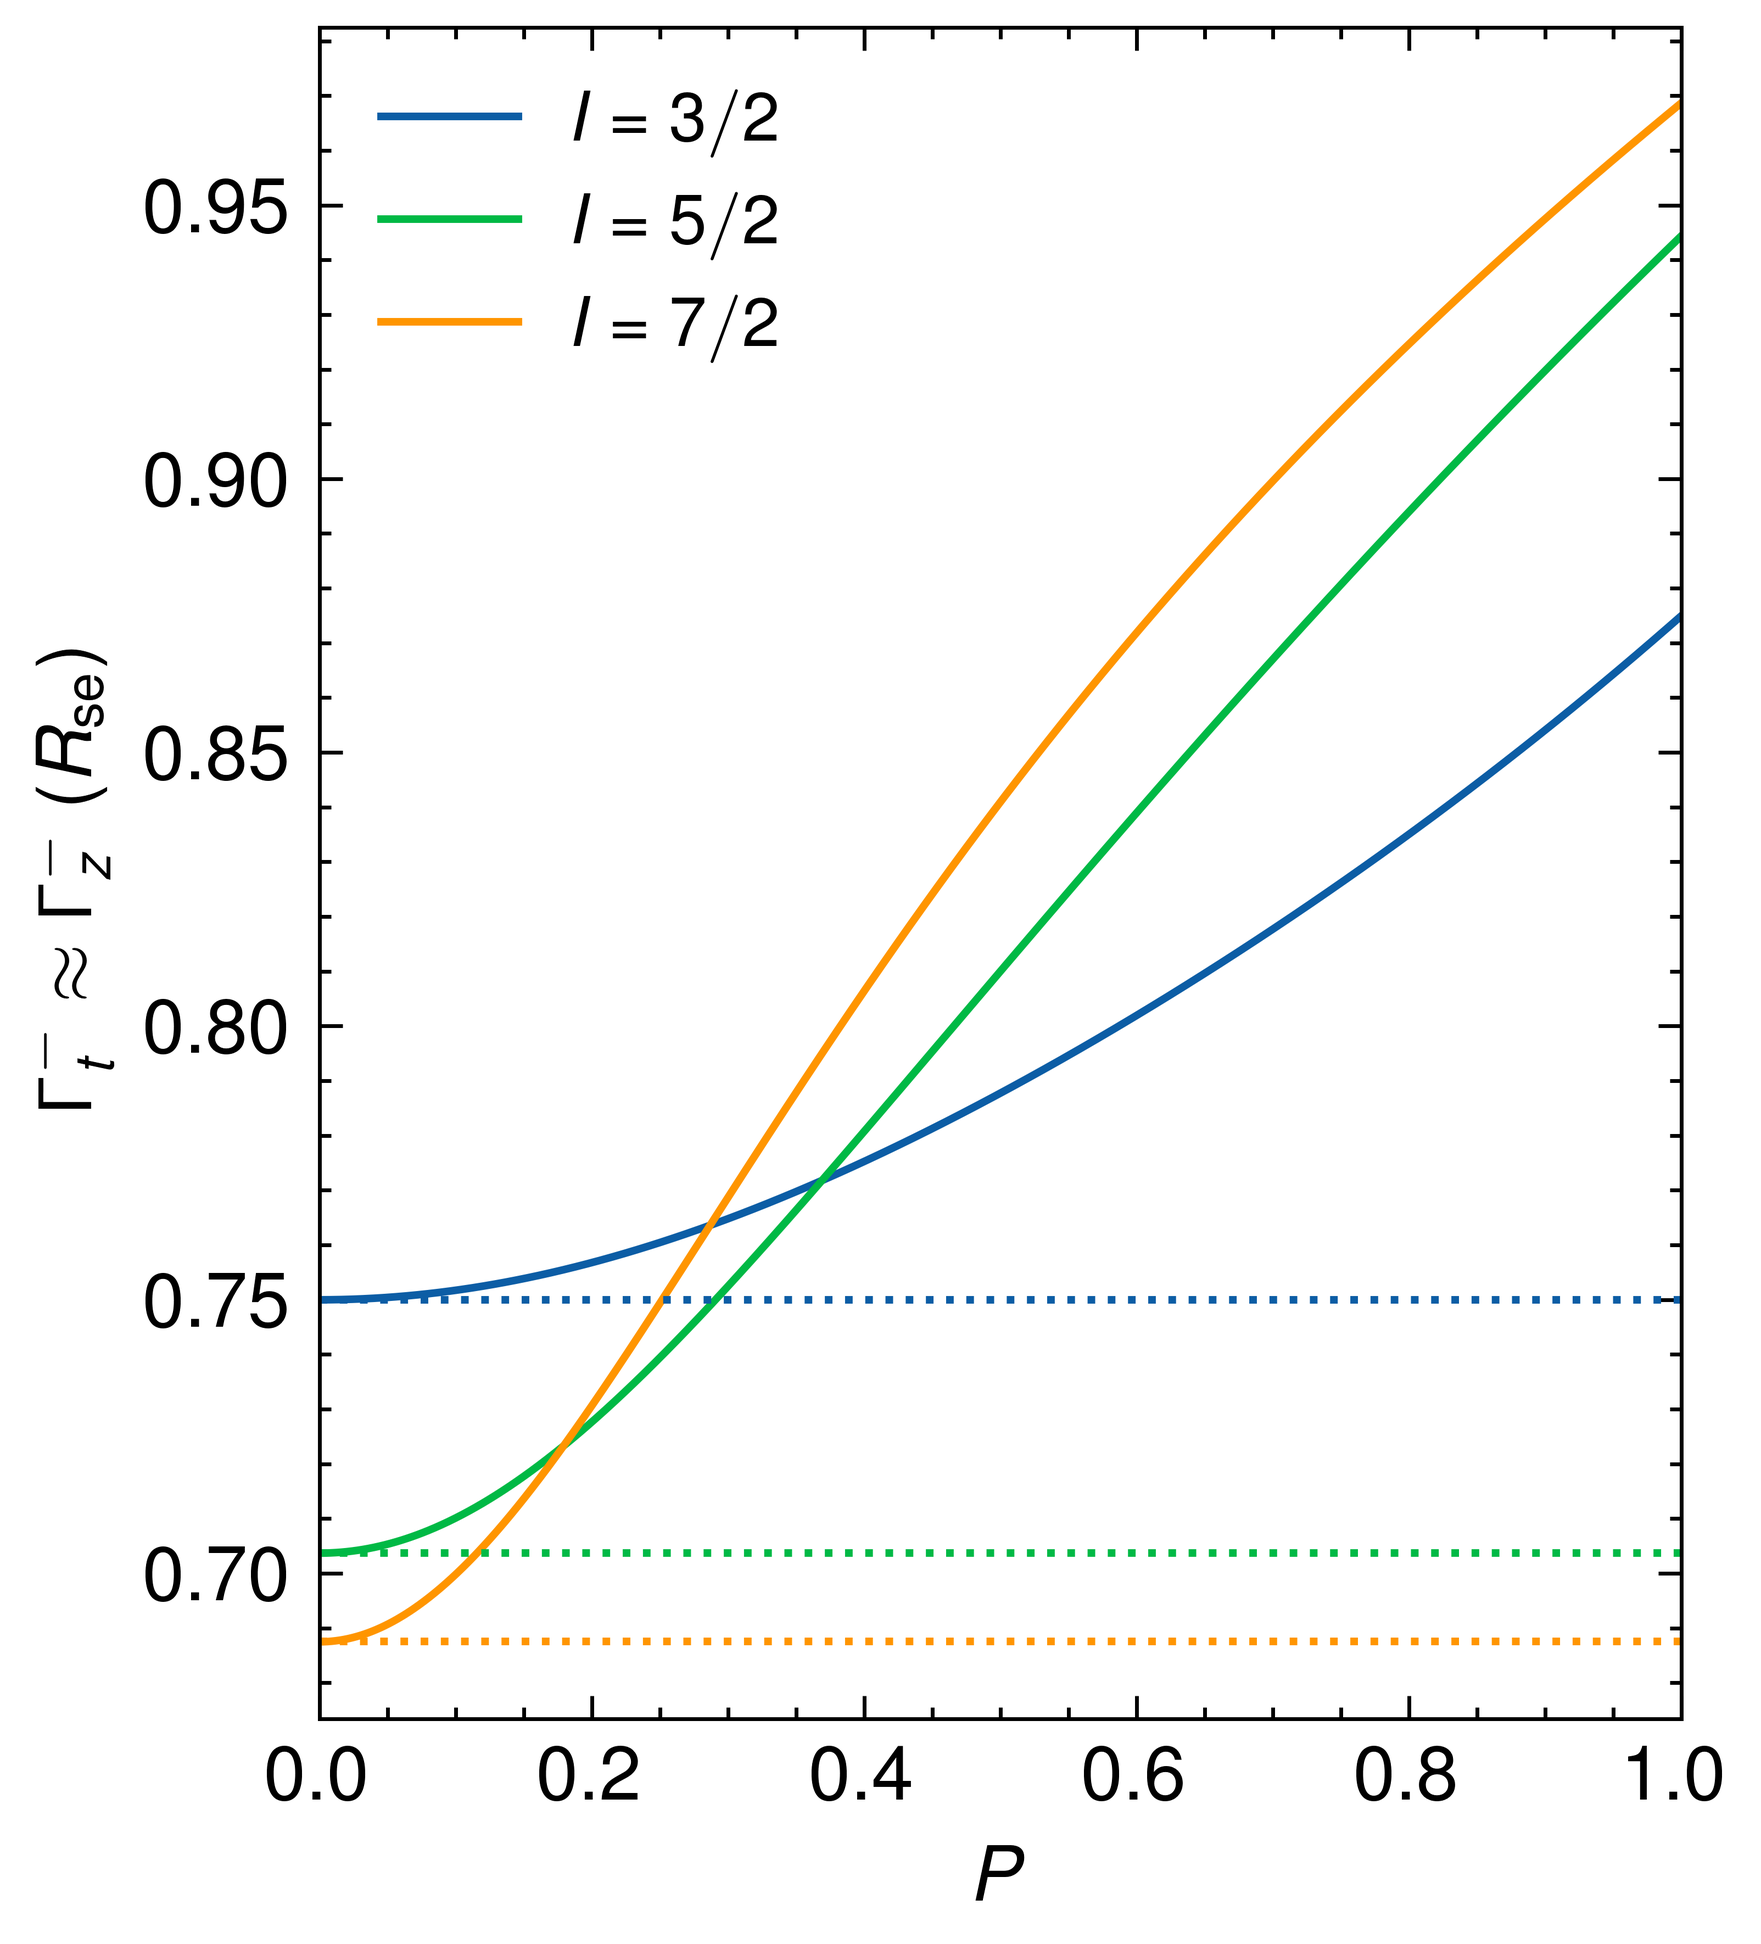
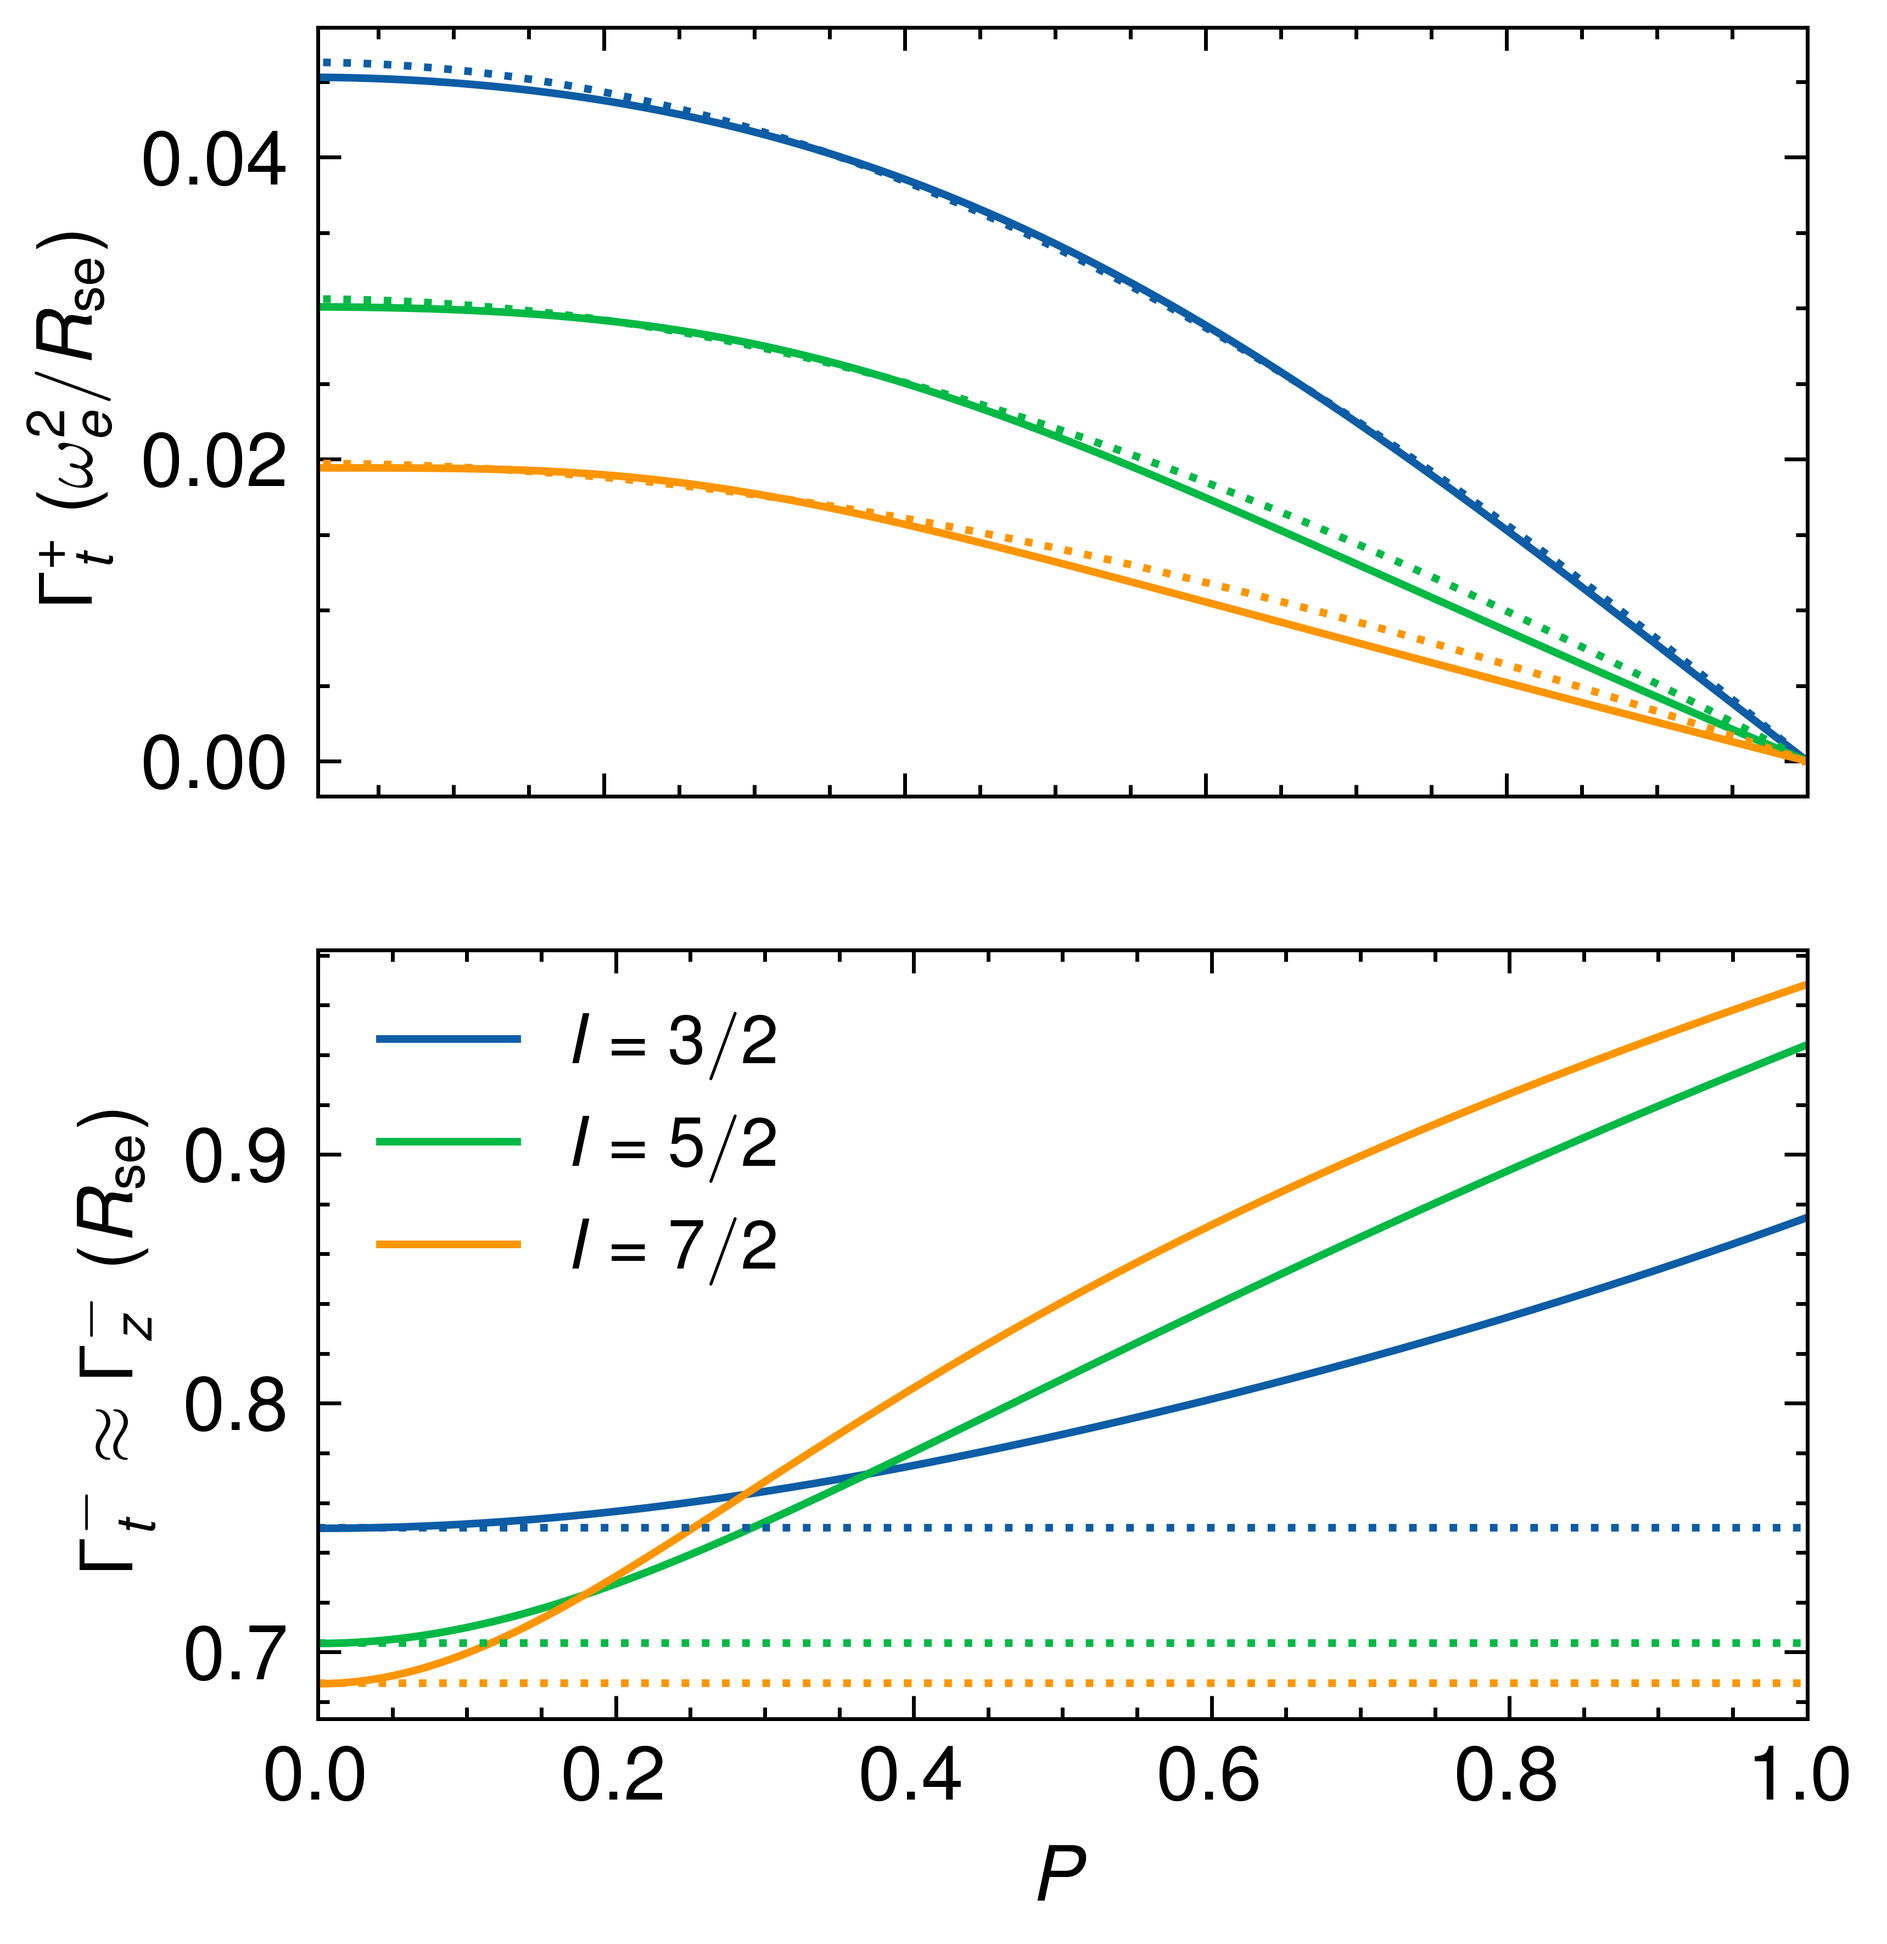
1

diff --git a/test9.py b/test9.py
@@ -1,57 +1,95 @@
+# -*- coding:utf-8 -*-
+"""
+作者：DELL
+日期：2023年12月24日
+"""
+import numpy as np
 import matplotlib.pyplot as plt
 from my_functions.spin_operators_of_2or1_alkali_metal_atoms import spin_operators_of_2or1_alkali_metal_atoms
 from my_functions.alkali_atom_uncoupled_to_coupled import alkali_atom_uncoupled_to_coupled
 from qutip import *
-from sympy.physics.quantum.spin import Rotation
 from sympy import pi
-from my_functions.master_relaxationrate import masterequation
 from scipy.linalg import *
-import numpy as np
-from my_functions.test7_copy import gammam
-bound=1000
-PP,z=gammam(3/2, bound)
-PP,zz=gammam(5/2,bound)
-PP,zzz=gammam(7/2, bound)
+import scienceplots
 
-P=np.arange(0, bound, 1)/1000
 
-# xiao's fast relaxation rate 
-h=3/4
-qq0=2*(19)/(3)
-hh=qq0*4*(5/2)*4/(3*36*(qq0-6))
+# --------------------------------Properties of the alkali metal atom-----------------------------------#
+I = 3 / 2
+a = round(I + 1 / 2)
+b = round(I - 1 / 2)
 
-qqq0=2*(11)/(1)
-hhh=qqq0*4*(7/2)*6/(3*64*(qqq0-8))
+# --------------------------------Generate the angular momentum operators-----------------------------------#
+U = alkali_atom_uncoupled_to_coupled(round(2 * I))
+ax, ay, az, bx, by, bz = spin_operators_of_2or1_alkali_metal_atoms(1, I)
+sx=np.array([[0,0.5],[0.5,0]])
+sy=np.array([[0,1j],[-1j,0]])*0.5
+sz=np.array([[0.5,0],[0,-0.5]])
+Sx = np.kron(np.eye(round(2 * I + 1)), np.array(sx))
+Sx = U.T.conjugate() @ Sx @ U
+Sy = np.kron(np.eye(round(2 * I + 1)), np.array(sy))
+Sy = U.T.conjugate() @ Sy @ U
+Sz = np.kron(np.eye(round(2 * I + 1)), np.array(sz))
+Sz = U.T.conjugate() @ Sz @ U
 
-plt.style.use(['science','nature'])
-with plt.style.context(['science','nature']):
-    fig = plt.figure(figsize=(3.2, 4))
-    ax2 = fig.add_subplot(111)
-    p21=ax2.plot(PP, -z)
-    p22=ax2.plot(PP, -zz)
-    p23=ax2.plot(PP, -zzz)
-    ax2.legend(["$ I=3/2$", "$ I=5/2$", "$ I=7/2$"],
-               loc='upper left', prop={'size': 9})
-    ax2.plot([],[])
-    ax2.plot([],[])
-    ax2.plot([],[])
-    ax2.plot([],[])
-    p24=ax2.plot(PP, h*np.ones(bound),linestyle='dotted')
-    p25=ax2.plot(PP, hh*np.ones(bound),linestyle='dotted')
-    p26=ax2.plot(PP, hhh*np.ones(bound),linestyle='dotted')
-    ax2.set_xlim([0,1])
+# --------------------------------Characterize interactions envolved-----------------------------------#
+Rse = 1
+H = (az - bz) # 投影定理
+dt = 0.001
+q, v = np.linalg.eig(H)
+evolving_B = v @ np.diag(np.exp(-1j * q *0.1)) @ np.linalg.inv(v)
+# --------------------------------Define the initial state-----------------------------------#
+theta = np.pi/2
+phi = 0
+a_theta = spin_Jx(a) * np.sin(theta) * np.cos(phi) + spin_Jy(a) * np.sin(theta) * np.sin(phi) + spin_Jz(a) * np.cos(
+theta)
+b_theta = spin_Jx(b) * np.sin(theta) * np.cos(phi) + spin_Jy(b) * np.sin(theta) * np.sin(phi) + spin_Jz(b) * np.cos(
+theta)
+qa, va = np.linalg.eig(np.array((a_theta.full())))
+qb, vb = np.linalg.eig(np.array((b_theta).full()))
+v = block_diag(va, vb)
+q = np.hstack((qa, qb))
+# # -----------------spin temperature state-----------------#
 
-    # plt.ylim([0.65, 1])
-    # plt.ticklabel_format(axis="y", style="sci", scilimits=(0,0))
-    # plt.xlabel('Frequency (Hz)', fontsize=12)
-    # plt.ylabel(' PSD ($N \chi_a^2/$Hz)', fontsize=12)
 
-    ax2.set_xlabel('$P$', fontsize=10)
-    ax2.set_ylabel('$\Gamma_t^- \\approx \Gamma_z^-$ ($R_{\\rm{se}}$) ', fontsize=10)
-    ax2.tick_params(axis='x', labelsize='10' )
-    ax2.tick_params(axis='y', labelsize='10' )
-    # ax2.set_xlim([0,1000])
-    
+# -----------------eigenstates-----------------#
 
-    plt.savefig('Gamma.png', dpi=1000)
+# Rho_ini = np.outer(np.array([0, 1, 0, 0, 0, 0, 0, 0]), np.array([0, 1, 0, 0, 0, 0, 0, 0]))
+
+# --------------------------------------Evolution under hyperfine effect, etc.--------------------------------#
+
+hyperfine = block_diag(np.ones((2 * a + 1, 2 * a + 1)), np.ones((2 * b + 1, 2 * b + 1)))  # 一个原子
+
+# -----------------Evolution-----------------#
+Rho_ini = np.zeros(2 * (a + b + 1))
+P = 0.6
+beta = np.log((1 + P) / (1 - P))
+for i in np.arange(0, 2 * (a + b + 1), 1):
+    Rho_ini = Rho_ini + np.exp(beta * q[i]) * v[:, [i]] @ v[:, [i]].T.conjugate()
+Rho_ini = Rho_ini / np.trace(Rho_ini)
+Rho_ini = evolving_B @Rho_ini @ evolving_B.T.conjugate()  # Zeeman effect
+Rhot = Rho_ini
+
+
+
+T=10
+etan=np.zeros(round(T/dt))
+tt=np.arange(0,round(T/dt),1)*dt
+for k in np.arange(0,round(T/dt),1):
+    Rhot = hyperfine * Rhot
+    x1 = Rhot @ Sx
+    x2 = Rhot @ Sy
+    x3 = Rhot @ Sz
+    AS = 3 / 4 * Rhot - (Sx @ x1 + Sy @ x2 + Sz @ x3)
+    alpha = Rhot - AS
+    mSx = np.trace(x1)
+    mSy = np.trace(x2)
+    mSz = np.trace(x3)
+    mSS = mSx * Sx + mSy * Sy + mSz * Sz
+    Rhot = Rse * (alpha + 4 * alpha @ mSS - Rhot) * dt  + Rhot
+    P=np.sqrt(mSx**2+mSy**2)*2
+    eta=(5+3*P**2)/(1-P**2)
+    etan[k]=eta
+
+plt.plot(tt,etan)
 plt.show()
+

diff --git a/Gamma.py b/Gamma.py
@@ -16,29 +16,29 @@ PP,zzz=gammam(7/2, bound)
 P=np.arange(0, bound, 1)/1000
 
 # xiao's fast relaxation rate 
-# h=3/4
-# qq0=2*(19)/(3)
-# hh=qq0*4*(5/2)*4/(3*36*(qq0-6))
+h=3/4
+qq0=2*(19)/(3)
+hh=qq0*4*(5/2)*4/(3*36*(qq0-6))
 
-# qqq0=2*(11)/(1)
-# hhh=qqq0*4*(7/2)*6/(3*64*(qqq0-8))
+qqq0=2*(11)/(1)
+hhh=qqq0*4*(7/2)*6/(3*64*(qqq0-8))
 
 # Mr zhao's fast relaxation rate 
 
-varpsilon1=(5+P**2)/(1+P**2)
-q1 = 2 * (3 + P ** 2) / (1 + P ** 2)
-g1=P**2/(4*(1+P**2))
-h = (q1/8)/(varpsilon1)* 5
+# varpsilon1=(5+P**2)/(1+P**2)
+# q1 = 2 * (3 + P ** 2) / (1 + P ** 2)
+# g1=P**2/(4*(1+P**2))
+# h = (q1/8)/(varpsilon1)* 5
 
-varpsilon2=(35+42*P**2+3*P**4)/(3+10*P**2+3*P**4)
-q2 = 2 * (19 + 26 * P ** 2 + 3 * P ** 4) / (3 + 10 * P ** 2 + 3 * P ** 4)
-g2 = 8*P**2* (7 + 3 * P ** 2 ) / 27/(3 + 10 * P ** 2 + 3 * P ** 4)
-hh =(19/27-g2-g2) /varpsilon2*(35/3)
+# varpsilon2=(35+42*P**2+3*P**4)/(3+10*P**2+3*P**4)
+# q2 = 2 * (19 + 26 * P ** 2 + 3 * P ** 4) / (3 + 10 * P ** 2 + 3 * P ** 4)
+# g2 = 8*P**2* (7 + 3 * P ** 2 ) / 27/(3 + 10 * P ** 2 + 3 * P ** 4)
+# hh =(19/27-g2-g2) /varpsilon2*(35/3)
 
-varpsilon3=(21+63*P**2+27*P**4+P**6)/(1+7*P**2+7*P**4+P**6)
-q3 = 2 * (11 + 35 * P ** 2 + 17 * P ** 4 + P ** 6) / (1 + 7 * P ** 2 + 7 * P ** 4 + P ** 6)
-g3 = P**2* (21 + 30 * P ** 2 +5*P**4) / 16/(1+ 7 * P ** 2 + 7 * P ** 4+P**6)
-hhh =(22/32-2*g3)/varpsilon3*(21)
+# varpsilon3=(21+63*P**2+27*P**4+P**6)/(1+7*P**2+7*P**4+P**6)
+# q3 = 2 * (11 + 35 * P ** 2 + 17 * P ** 4 + P ** 6) / (1 + 7 * P ** 2 + 7 * P ** 4 + P ** 6)
+# g3 = P**2* (21 + 30 * P ** 2 +5*P**4) / 16/(1+ 7 * P ** 2 + 7 * P ** 4+P**6)
+# hhh =(22/32-2*g3)/varpsilon3*(21)
 
 
 P1,Gamma1,PP1,DD1=masterequation(3/2)
@@ -48,7 +48,7 @@ P3,Gamma3,PP3,DD3=masterequation(7/2)
 
 plt.style.use(['science','nature'])
 with plt.style.context(['science','nature']):
-    fig = plt.figure(figsize=(3.2, 4))
+    fig = plt.figure(figsize=(3.35, 4))
     ax1 = fig.add_subplot(211)
     ax1.plot(PP1, DD1)
     ax1.plot(PP2, DD2)
@@ -94,5 +94,5 @@ with plt.style.context(['science','nature']):
     # ax2.set_xlim([0,1000])
     
 
-    plt.savefig('Gamma.png', dpi=1000)
+    plt.savefig('Gamma_.png', dpi=1000)
 plt.show()

diff --git a/my_functions/test7_copy.py b/my_functions/test7_copy.py
@@ -84,7 +84,7 @@ def gammam(I,bound):
         Fxm0 = np.trace((ax-eta*bx)@Rhot)
         Fym0 = np.trace((ay-eta*by)@Rhot)
         Fm0=np.sqrt(Fxm0**2+Fym0**2)
-        for k in np.arange(0,2,1):
+        for k in np.arange(0,10,1):
             Rhot = hyperfine * Rhot
             x1 = Rhot @ Sx
             x2 = Rhot @ Sy
@@ -96,12 +96,21 @@ def gammam(I,bound):
             mSz = np.trace(x3)
             mSS = mSx * Sx + mSy * Sy + mSz * Sz
             Rhot = Rse * (alpha + 4 * alpha @ mSS - Rhot) * dt  + Rhot
+        P_t=np.sqrt(np.trace(Rhot@Sx)**2+np.trace(Rhot@Sy)**2)*2
+        if a==2:
+            eta=(5+3*P_t**2)/(1-P_t**2)
+        if a==3:
+            qq=2*(19+26*P_t**2+3*P_t**4)/(3+10*P_t**2+3*P_t**4)
+            eta=(qq+6)/(qq-6)
+        if a==4:
+            qq=2*(11+35*P_t**2+17*P_t**4+P_t**6)/(1+7*P_t**2+7*P_t**4+P_t**6)
+            eta=(qq+8)/(qq-8)
         Fxm = np.trace((ax-eta*bx)@Rhot)
         Fym = np.trace((ay-eta*by)@Rhot)
         Fm=np.sqrt(Fxm**2+Fym**2)
         
 
-        Fmmt[n]=(Fm-Fm0)/(2*dt)/Fm0
+        Fmmt[n]=(Fm-Fm0)/(10*dt)/Fm0
 
     return PP,Fmmt
     
